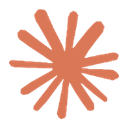
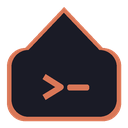
feat: give the add-on its own visual identity, restructure the README
The previous icon and logo were Anthropic's starburst mark -- borrowed
identity rather than this add-on's own, and it said nothing about what the
add-on actually is.

The new mark encodes the product instead: a house silhouette (Home
Assistant) enclosing a terminal prompt (what the add-on is), drawn in the
#d97757 terracotta already used by the ttyd theme, the tmux status bar and
the welcome banner, over the same #1a1b26 the terminal itself renders on.
So the identity is derived from the product rather than applied to it.

Drawn as geometry at 4x and downsampled rather than upscaled from the old
64x64 raster, so both assets are genuinely crisp: icon.png at the spec's
128x128, logo.png as a real 250x100 lockup with wordmark.

README restructured: centred masthead with logo, screenshot and status
badges; feature and option tables instead of prose lists; token creation
folded into a <details> block so the install path is five steps rather than
a wall; GitHub-native callouts for the token-in-backups warning and the
security posture. Content is unchanged in substance -- attribution, support
routing and the private-repo install all say what they said before.

Verified: every referenced local path resolves, the DOCS.md anchor exists,
the version badge matches config.yaml, and all 12 schema options appear.

diff --git a/README.md b/README.md
@@ -1,119 +1,168 @@
-# Claude Terminal for Home Assistant (WetDogNose fork)
+<div align="center">
 
-This repository contains a custom add-on that integrates Anthropic's Claude Code CLI with Home Assistant.
+<img src="claude-terminal/logo.png" alt="Claude Terminal" width="260">
 
-It is a fork of [heytcass/home-assistant-addons](https://github.com/heytcass/home-assistant-addons) — see [Upstream & attribution](#upstream--attribution).
+### Claude Code in a browser terminal, inside Home Assistant
 
-## Installation
+Write automations, debug YAML and control your instance in plain language —
+without leaving the Home Assistant sidebar.
 
-This repository is **private**, and the Home Assistant Supervisor clones add-on
-repositories anonymously by default. It therefore needs a GitHub token embedded
-in the repository URL. Create the token first, then add the repository.
+![Version](https://img.shields.io/badge/version-2.5.1--wdn.1-d97757?style=for-the-badge)
+![Architectures](https://img.shields.io/badge/arch-amd64%20%7C%20aarch64-2b5b84?style=for-the-badge)
+![License](https://img.shields.io/badge/license-MIT-4c9a5a?style=for-the-badge)
+![Ingress](https://img.shields.io/badge/ingress-enabled-1a1b26?style=for-the-badge)
 
-### 1. Create a read-only access token
+</div>
+
+---
+
+<div align="center">
+  <img src="claude-terminal/screenshot.png" alt="Claude Terminal running in Home Assistant" width="760">
+</div>
+
+---
+
+## What you get
+
+|  | Feature |
+|:--:|---|
+| 🖥 | **Just Claude Code** — opens straight into Claude, no menus in the way |
+| 🏠 | **Knows your setup** — version, entities and add-ons are summarised for Claude automatically |
+| 🔌 | **Controls Home Assistant** — bundled [ha-mcp](https://github.com/homeassistant-ai/ha-mcp) server for natural-language device and automation control |
+| 🔁 | **Survives reloads** — tmux keeps your conversation alive across browser refreshes and navigation |
+| 🔑 | **Log in once** — OAuth credentials persist across restarts and updates |
+| 🐙 | **GitHub built in** — the `gh` CLI ships in the image; run `github-setup` and Claude can manage repos and push commits |
+| 📦 | **Persistent packages** — `persist-install` keeps extra apk/pip tools across restarts |
+| 📁 | **Broad file access** — `/config`, `/addon_configs` and `/share` are mounted |
+
+---
+
+## Install
+
+> [!IMPORTANT]
+> This repository is **private**, and the Supervisor clones add-on repositories
+> anonymously. It therefore needs a GitHub token embedded in the repository URL.
+
+<details>
+<summary><b>Step 1 — create a read-only access token</b></summary>
+
+<br>
 
 On GitHub: **Settings** → **Developer settings** → **Personal access tokens** →
 **Fine-grained tokens** → **Generate new token**
 
-- **Repository access**: *Only select repositories* → `home-assistant-claude`
-- **Permissions**: *Repository permissions* → **Contents: Read-only**
-- Choose an expiry you are willing to renew
+| Setting | Value |
+|---|---|
+| Repository access | *Only select repositories* → `home-assistant-claude` |
+| Permissions | *Repository permissions* → **Contents: Read-only** |
+| Expiry | Whatever you are willing to renew |
 
-Read-only access to Contents is all the Supervisor needs in order to clone.
-Prefer a fine-grained token over a classic one: a classic token's `repo` scope
-grants read **and write** to *every* private repository you own, where this
-grants read to exactly one.
+Read-only access to Contents is all a clone needs. Prefer a fine-grained token
+over a classic one — a classic token's `repo` scope grants read **and write** to
+*every* private repository you own, where this grants read to exactly one.
 
-### 2. Add the repository
+</details>
 
-1. In Home Assistant, go to **Settings** → **Add-ons** → **Add-on Store**
-2. Click the **⋮** menu in the top right and choose **Repositories**
-3. Add this URL, substituting your token:
+**Step 2 — add the repository**
 
-   ```
+1. Go to **Settings** → **Add-ons** → **Add-on Store**
+2. Click **⋮** (top right) → **Repositories**
+3. Add this URL, with your token substituted:
+
+   ```text
    https://WetDogNose:YOUR_TOKEN@github.com/WetDogNose/home-assistant-claude.git
    ```
 
-4. Click **Add**, then close the dialog
-5. Find **Claude Terminal (WetDogNose)** in the store and click **Install**
-6. Start the add-on, then click **OPEN WEB UI** (or use the sidebar entry)
-7. On first launch, follow the OAuth prompts to sign in to your Anthropic account
+4. Install **Claude Terminal (WetDogNose)**, then start it
+5. Click **OPEN WEB UI**, and follow the OAuth prompts on first launch
 
-> **Where that token ends up.** The Supervisor stores the URL verbatim, so the
-> token is visible in the repository list and is included in Home Assistant
-> backups. A fine-grained read-only token means a leaked backup exposes read
-> access to this one repository and nothing else — which is the whole reason to
-> scope it that way.
->
-> **When it expires**, the store silently stops picking up new versions. Edit
-> the repository URL with a fresh token to resume. If you later make this
-> repository public, replace the whole URL with the plain
-> `https://github.com/WetDogNose/home-assistant-claude` form and revoke the token.
+Images are pulled prebuilt from `ghcr.io/wetdognose`, so nothing is compiled on
+your Home Assistant machine.
 
-Home Assistant pulls prebuilt images from `ghcr.io/wetdognose`, so installing
-does not build anything on your Home Assistant machine.
+> [!WARNING]
+> The Supervisor stores that URL **verbatim** — the token appears in the
+> repository list and in every Home Assistant backup, which is exactly why it
+> should be read-only and scoped to this one repository. Expiry is silent: the
+> store simply stops seeing new versions, so update the URL with a fresh token.
 
-> **Installs alongside the original.** This fork uses the slug
-> `claude_terminal_wdn`, distinct from upstream's `claude_terminal`, so both
-> can be installed at once. They keep separate `/data`, which means a separate
-> Claude login and separate session history for each.
+> [!NOTE]
+> **Installs alongside the original.** This fork's slug is `claude_terminal_wdn`,
+> distinct from upstream's `claude_terminal`, so both can coexist. Each keeps its
+> own `/data` — separate Claude login, separate history.
 
-## Add-ons
+---
 
-### Claude Terminal
+## Configuration
 
-A web-based terminal interface with Claude Code CLI pre-installed. This add-on provides a terminal environment directly in your Home Assistant dashboard, allowing you to use Claude's powerful AI capabilities for coding, automation, and configuration tasks.
+Works out of the box. Every option is labelled in the Home Assistant UI; the
+full reference lives in **[DOCS.md](claude-terminal/DOCS.md)**.
 
-Features:
-- Web terminal access through your Home Assistant UI
-- Pre-installed Claude Code CLI that launches automatically
-- Direct access to your Home Assistant config directory
-- No configuration needed (uses OAuth)
-- Access to Claude's complete capabilities including:
-  - Code generation and explanation
-  - Debugging assistance
-  - Home Assistant automation help
-  - Learning resources
+| Option | Default | What it does |
+|---|:--:|---|
+| `auto_launch_claude` | `true` | Start Claude on open, or drop to a shell |
+| `claude_auto_update` | `true` | Keep Claude Code current in the background |
+| `claude_version` | `""` | Pin to `stable`, `latest` or `X.Y.Z` |
+| `dangerously_skip_permissions` | `false` | ⚠ Removes the confirmation step |
+| `claude_extra_args` | `""` | Extra flags for every launch |
+| `ha_smart_context` | `true` | Summarise your HA setup for Claude |
+| `enable_ha_mcp` | `true` | Let Claude control Home Assistant |
+| `ha_mcp_version` | `7.11.0` | Which ha-mcp release backs that connection |
+| `git_user_name` / `git_user_email` | `""` | Commit identity for git |
+| `persistent_apk_packages` | `[]` | apk packages reinstalled each boot |
+| `persistent_pip_packages` | `[]` | pip packages reinstalled each boot |
 
-[Documentation](claude-terminal/DOCS.md)
+---
 
-## Community Tools
+## Security
 
-Tools built by the community to enhance Claude Terminal:
+> [!CAUTION]
+> **This add-on is powerful by design.** It runs as root, has read-write access
+> to `/config`, `/addon_configs` and `/share`, and with MCP enabled can control
+> devices and rewrite automations.
 
-- **[ha-ws-client-go](https://github.com/schoolboyqueue/home-assistant-blueprints/tree/main/scripts/ha-ws-client-go)** by [@schoolboyqueue](https://github.com/schoolboyqueue) - Lightweight Go CLI for Home Assistant WebSocket API. Gives Claude direct access to entity states, service calls, automation traces, and real-time monitoring. Single binary, no dependencies.
+`dangerously_skip_permissions` removes the last human checkpoint. With it on, a
+misunderstanding — or a prompt injection hidden in any file, issue or web page
+Claude reads — can change your configuration or actuate devices without asking.
+Leave it off unless you accept that trade-off.
 
-- **[Claude Home Assistant Plugins](https://github.com/ESJavadex/claude-homeassistant-plugins)** by [@ESJavadex](https://github.com/ESJavadex) - A collection of Claude Code skills/plugins for Home Assistant, including YAML validation, pre-save hooks, and Lovelace dashboard validation.
+Full notes, including where credentials are stored and what lands in backups,
+are in **[DOCS.md](claude-terminal/DOCS.md#security-notes)**.
 
-- **[Claude Terminal Pro](https://github.com/ESJavadex/claude-code-ha)** by [@ESJavadex](https://github.com/ESJavadex) - A fork with additional features including image paste support, persistent package management, and auto-install configuration.
+---
+
+## Community tools
+
+Built by others to extend Claude Terminal:
+
+- **[ha-ws-client-go](https://github.com/schoolboyqueue/home-assistant-blueprints/tree/main/scripts/ha-ws-client-go)** by [@schoolboyqueue](https://github.com/schoolboyqueue) — lightweight Go CLI for the HA WebSocket API: entity states, service calls, automation traces, live monitoring.
+- **[Claude HA Plugins](https://github.com/ESJavadex/claude-homeassistant-plugins)** by [@ESJavadex](https://github.com/ESJavadex) — Claude Code skills for Home Assistant: YAML validation, pre-save hooks, Lovelace checks.
+- **[Claude Terminal Pro](https://github.com/ESJavadex/claude-code-ha)** by [@ESJavadex](https://github.com/ESJavadex) — a fork adding image paste, package management and auto-install.
+
+---
 
 ## Support
 
-Issues with **this fork** belong in [this repository's issue tracker](https://github.com/WetDogNose/home-assistant-claude/issues).
+Problems with **this fork** → [this repository's issues](https://github.com/WetDogNose/home-assistant-claude/issues).
 
-Please don't raise fork-specific problems upstream — the upstream maintainer
-did not build these images and can't reproduce changes made here. If you can
-reproduce a problem on upstream's add-on too, report it
-[there](https://github.com/heytcass/home-assistant-addons/issues) instead.
+Please don't raise fork-specific problems upstream: the upstream maintainer did
+not build these images and cannot reproduce changes made here. If it reproduces
+on upstream's add-on too, report it [there](https://github.com/heytcass/home-assistant-addons/issues) instead.
+
+---
 
 ## Upstream & attribution
 
 The Claude Terminal add-on is the work of
 **[Tom Cassady (@heytcass)](https://github.com/heytcass)** and contributors, in
-[heytcass/home-assistant-addons](https://github.com/heytcass/home-assistant-addons).
+**[heytcass/home-assistant-addons](https://github.com/heytcass/home-assistant-addons)**.
 All credit for the original add-on belongs there.
 
-This fork exists so the images Home Assistant pulls are built from this
-repository rather than from a third-party registry — the add-on runs as root
-with broad access to Home Assistant, so it's worth controlling what actually
-ships. Both projects are MIT licensed.
+This fork exists so the images Home Assistant pulls are built from source you
+can inspect here — the add-on runs as root with broad access, so it is worth
+controlling what actually ships. Both projects are MIT licensed.
 
-Original work © Tom Cassady and contributors. See [LICENSE](LICENSE).
+Original work © Tom Cassady and contributors. See **[LICENSE](LICENSE)**.
 
-## Credits
-
-This add-on was created with the assistance of Claude Code itself! The development process, debugging, and documentation were all completed using Claude's AI capabilities.
-
-## License
-
-This repository is licensed under the MIT License - see the [LICENSE](LICENSE) file for details.
+<div align="center">
+<sub>Built with Claude Code — development, debugging and documentation alike.</sub>
+</div>
